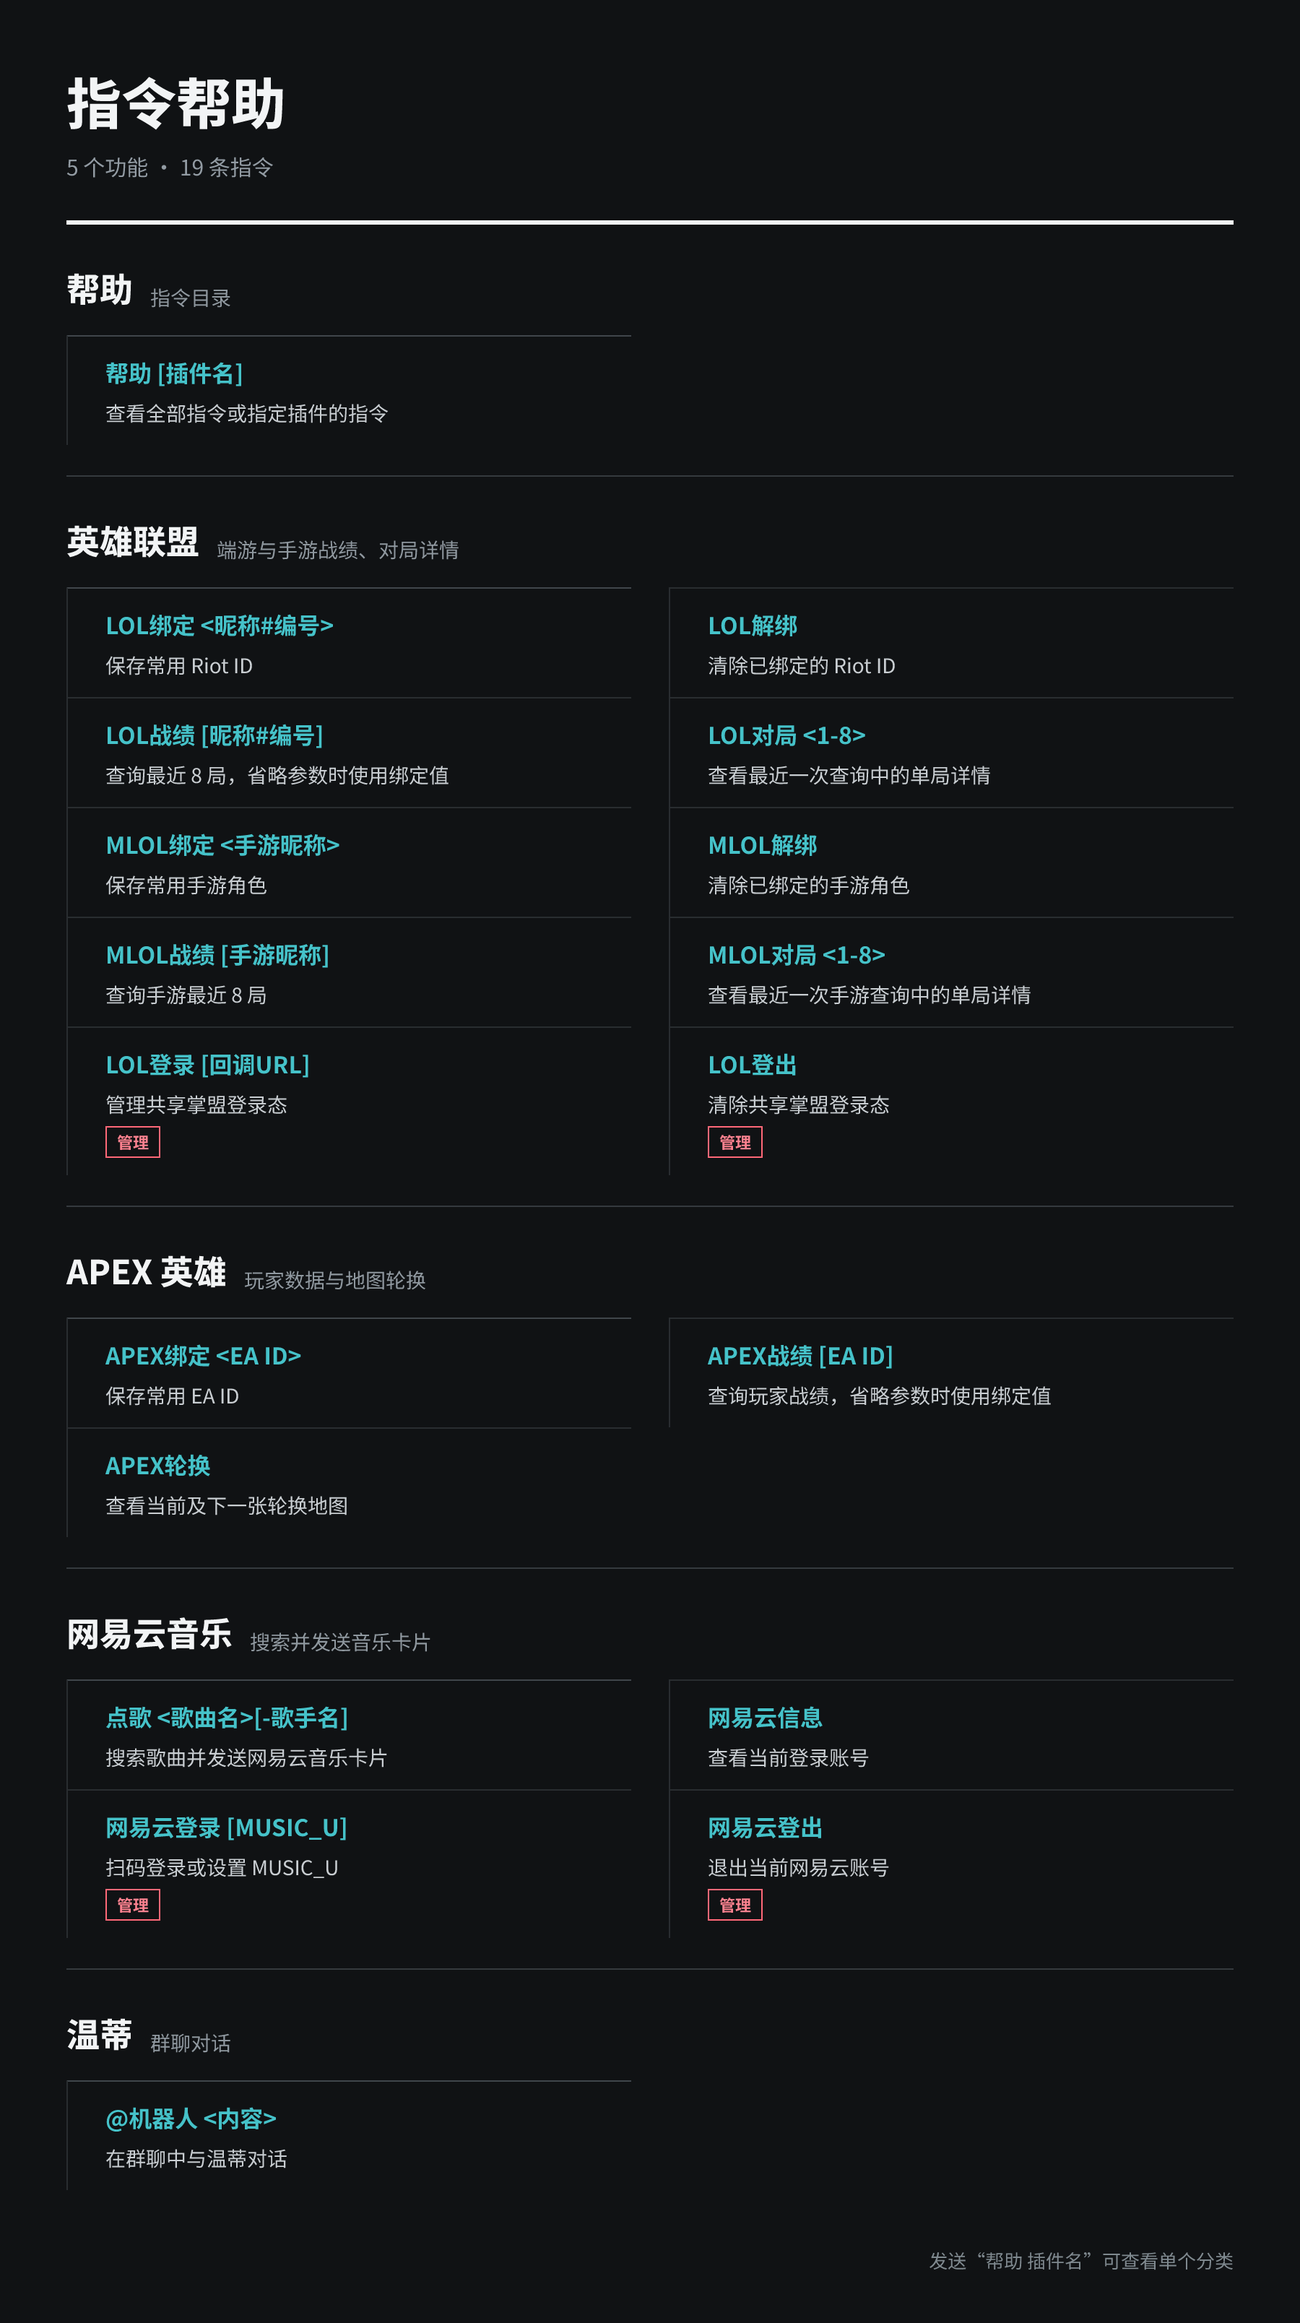
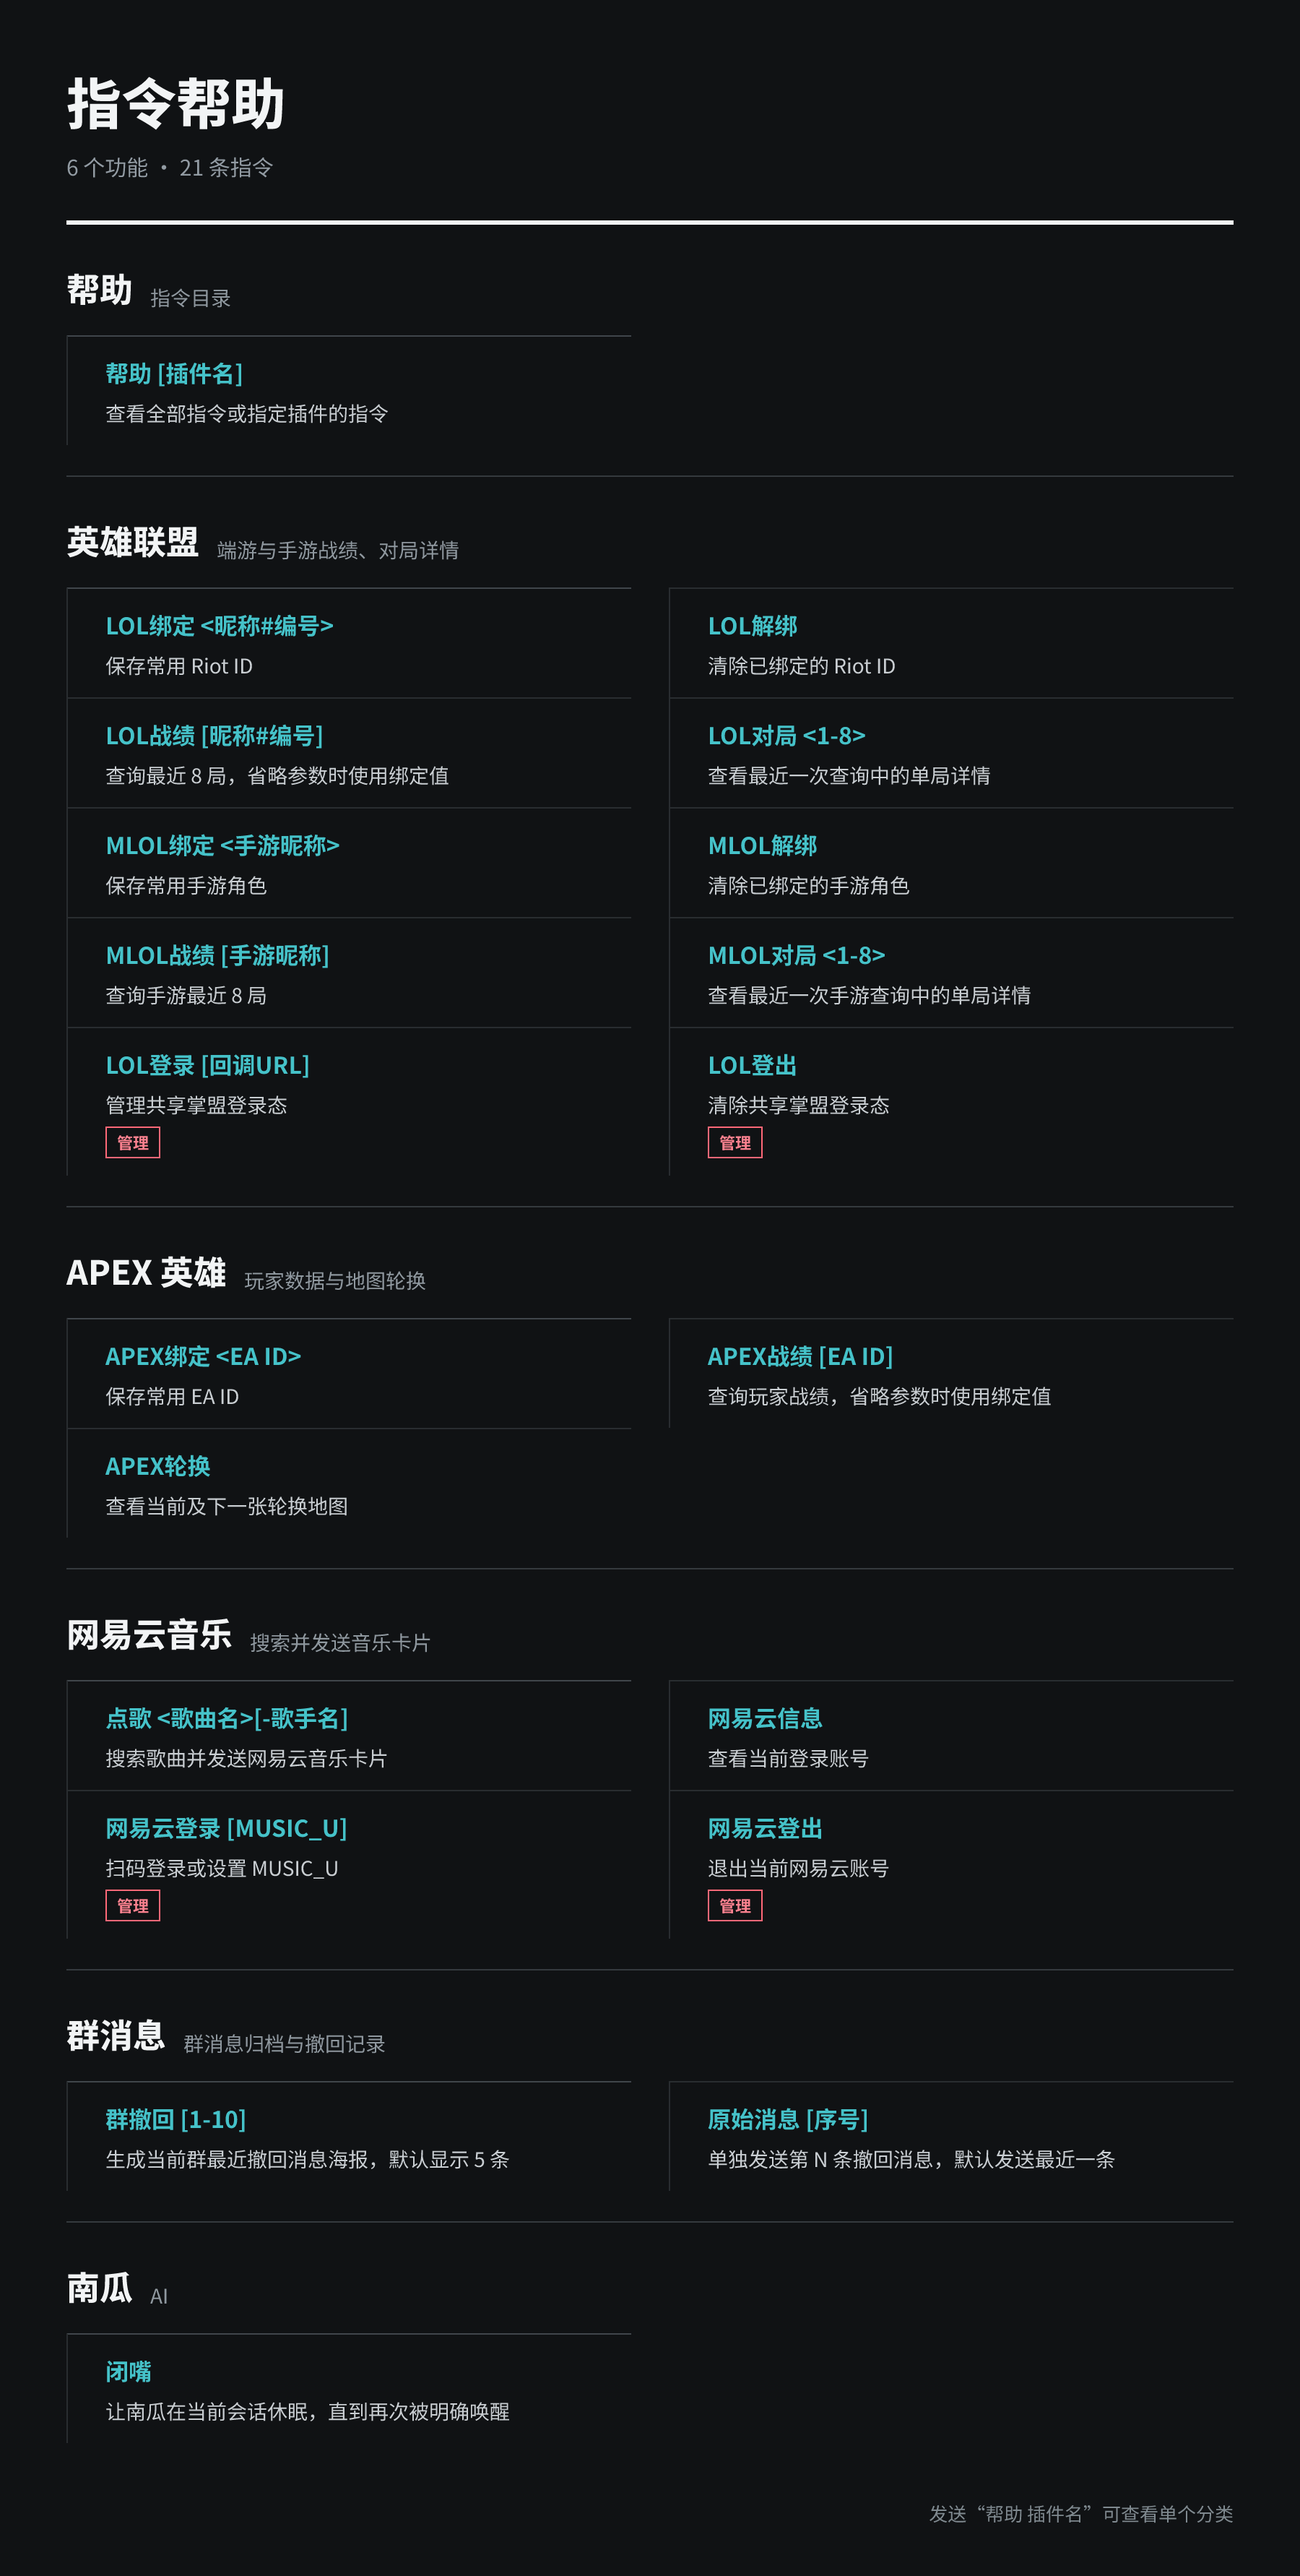
docs: highlight Pumpkin and refresh the help preview
Introduce Pumpkin's capabilities up front and replace the outdated Wendy help image with the current command catalog.

diff --git a/README.md b/README.md
@@ -1,5 +1,24 @@
-基于 NapCat / OneBot 的插件化 QQ 机器人。Mimi 把游戏战绩、音乐、帮助目录和
-消息归档拆成独立插件进程，让一个 QQ 账号同时承载多种群聊能力。
+# Mimi
+
+以 **南瓜（Pumpkin）AI 助手**为核心的 QQ 机器人：在群聊或私聊中自然对话、查资料、
+浏览网页、处理图片和执行任务，也支持英雄联盟与 APEX 战绩查询、网易云点歌和消息归档。
+基于 NapCat / OneBot，各项能力由独立插件提供。
+
+## 南瓜 · AI 助手
+
+在群里 `@南瓜` 或以“南瓜”开头提出需求，也可以直接私聊。南瓜能结合对话上下文回答，
+引用它的回复即可继续追问；复杂任务会先确认，再交付结果。
+
+- **聊天与看图**：日常问答、理解图片，按语境使用表情回应。
+- **查资料与浏览网页**：搜索并整理信息、读取网页、浏览动态页面，按需交付网页截图。
+- **执行任务**：运行代码、处理数据，将结果整理成图文报告或文件。
+- **图片与语音**：查找现成图片；配置相应服务后，也支持图片生成和语音合成。
+
+例如：“南瓜，帮我整理这篇文章的要点”“南瓜，把这张图里的数据整理成表格”。
+发送 `南瓜退下` 或 `闭嘴` 可让当前会话休眠，再次明确呼唤即可唤醒。
+任务只完成一部分或遇到限制时，会说明已完成的内容和剩余事项。
+
+详细能力与配置见 [Pumpkin 使用说明](plugins/pumpkin/README.md)。
 
 ## 图片帮助
 
@@ -81,8 +100,7 @@
 
 发送 `点歌 <歌曲名>[-歌手名]` 搜索歌曲，Mimi 会直接回复可播放的网易云音乐卡片。
 管理员可以通过二维码建立共享登录态，群成员无需分别登录。
-明确对 Pumpkin 说“点歌 …”时，它会回复同一条真实点歌指令，由 Music 插件继续完成
-搜索和卡片发送，不会改成语音朗读或图片任务。
+也可以对南瓜说“点歌 …”，获取同样的音乐卡片。
 
 <p align="center">
   <img src="docs/images/music-card.png" width="100%" alt="Mimi 网易云点歌与音乐卡片">
@@ -92,27 +110,7 @@
 
 | 插件 | 使用方式 | 功能 |
 | --- | --- | --- |
-| Pumpkin | `@南瓜` / `南瓜退下` | 克制参与、任务执行、动态网页浏览、表情回应与持久休眠控制 |
 | Yasuo | `群撤回` / `原始消息` | 生成同群撤回海报或单独发送归档原消息 |
-
-Pumpkin 查找现成图片时会读取相关页面、下载候选并查看预览；找不到合适资源时说明缺口，
-不会自行改为图片生成。
-引用南瓜的回答追问时会保留原问答作为参考；已验收的任务图片、文件和语音直接交付，
-不等待聊天排队。单个网页来源失败可继续换来源，未核验的结果不会自动宣称完成。
-用户纠正过的任务在完成前会独立核验实际候选内容；条件 ID 或完成声明不能代替证据。
-部分完成会说明已完成的部分和剩余事项，只核验声称已满足的条件。
-浏览器截图发送前会逐张核验文字可读性和任务要求，过程截图仅供诊断，不混入最终交付。
-浏览器任务使用独立、无网络的 Python 程序沙箱，通过受控 SDK 连续操作页面；
-程序间保留有界执行记录，并按剩余时间收敛；完成参数可纠正一次，仍需通过最终页面门禁。
-SDK 保留通用 DOM 结构和局部文字，支持定位重复入口；填写结果按最终控件状态核验，
-空表单标题或过程态文字不能证明填写完成。
-元素引用与页面观察版本分离，填写和新观察不会使有效引用失效。
-网页任务可在一次委派内保留页面继续执行，结束前自动获取最终证据；
-当前只支持可逆公开交互，不支持提交。公开交互每个任务版本只执行一次，
-部分完成后换链接或目标不能从头重做；填写结果通过控件状态和最终观察核验。
-浏览器能力不满足明确要求时会说明缺口；失败结果保留同次执行的观察和动作效果，
-不会用新开的空白页面判断旧操作结果。动作后先观察效果再判断停滞，
-原交互未核验时只能报告部分完成。
 
 ## 文档入口
 
